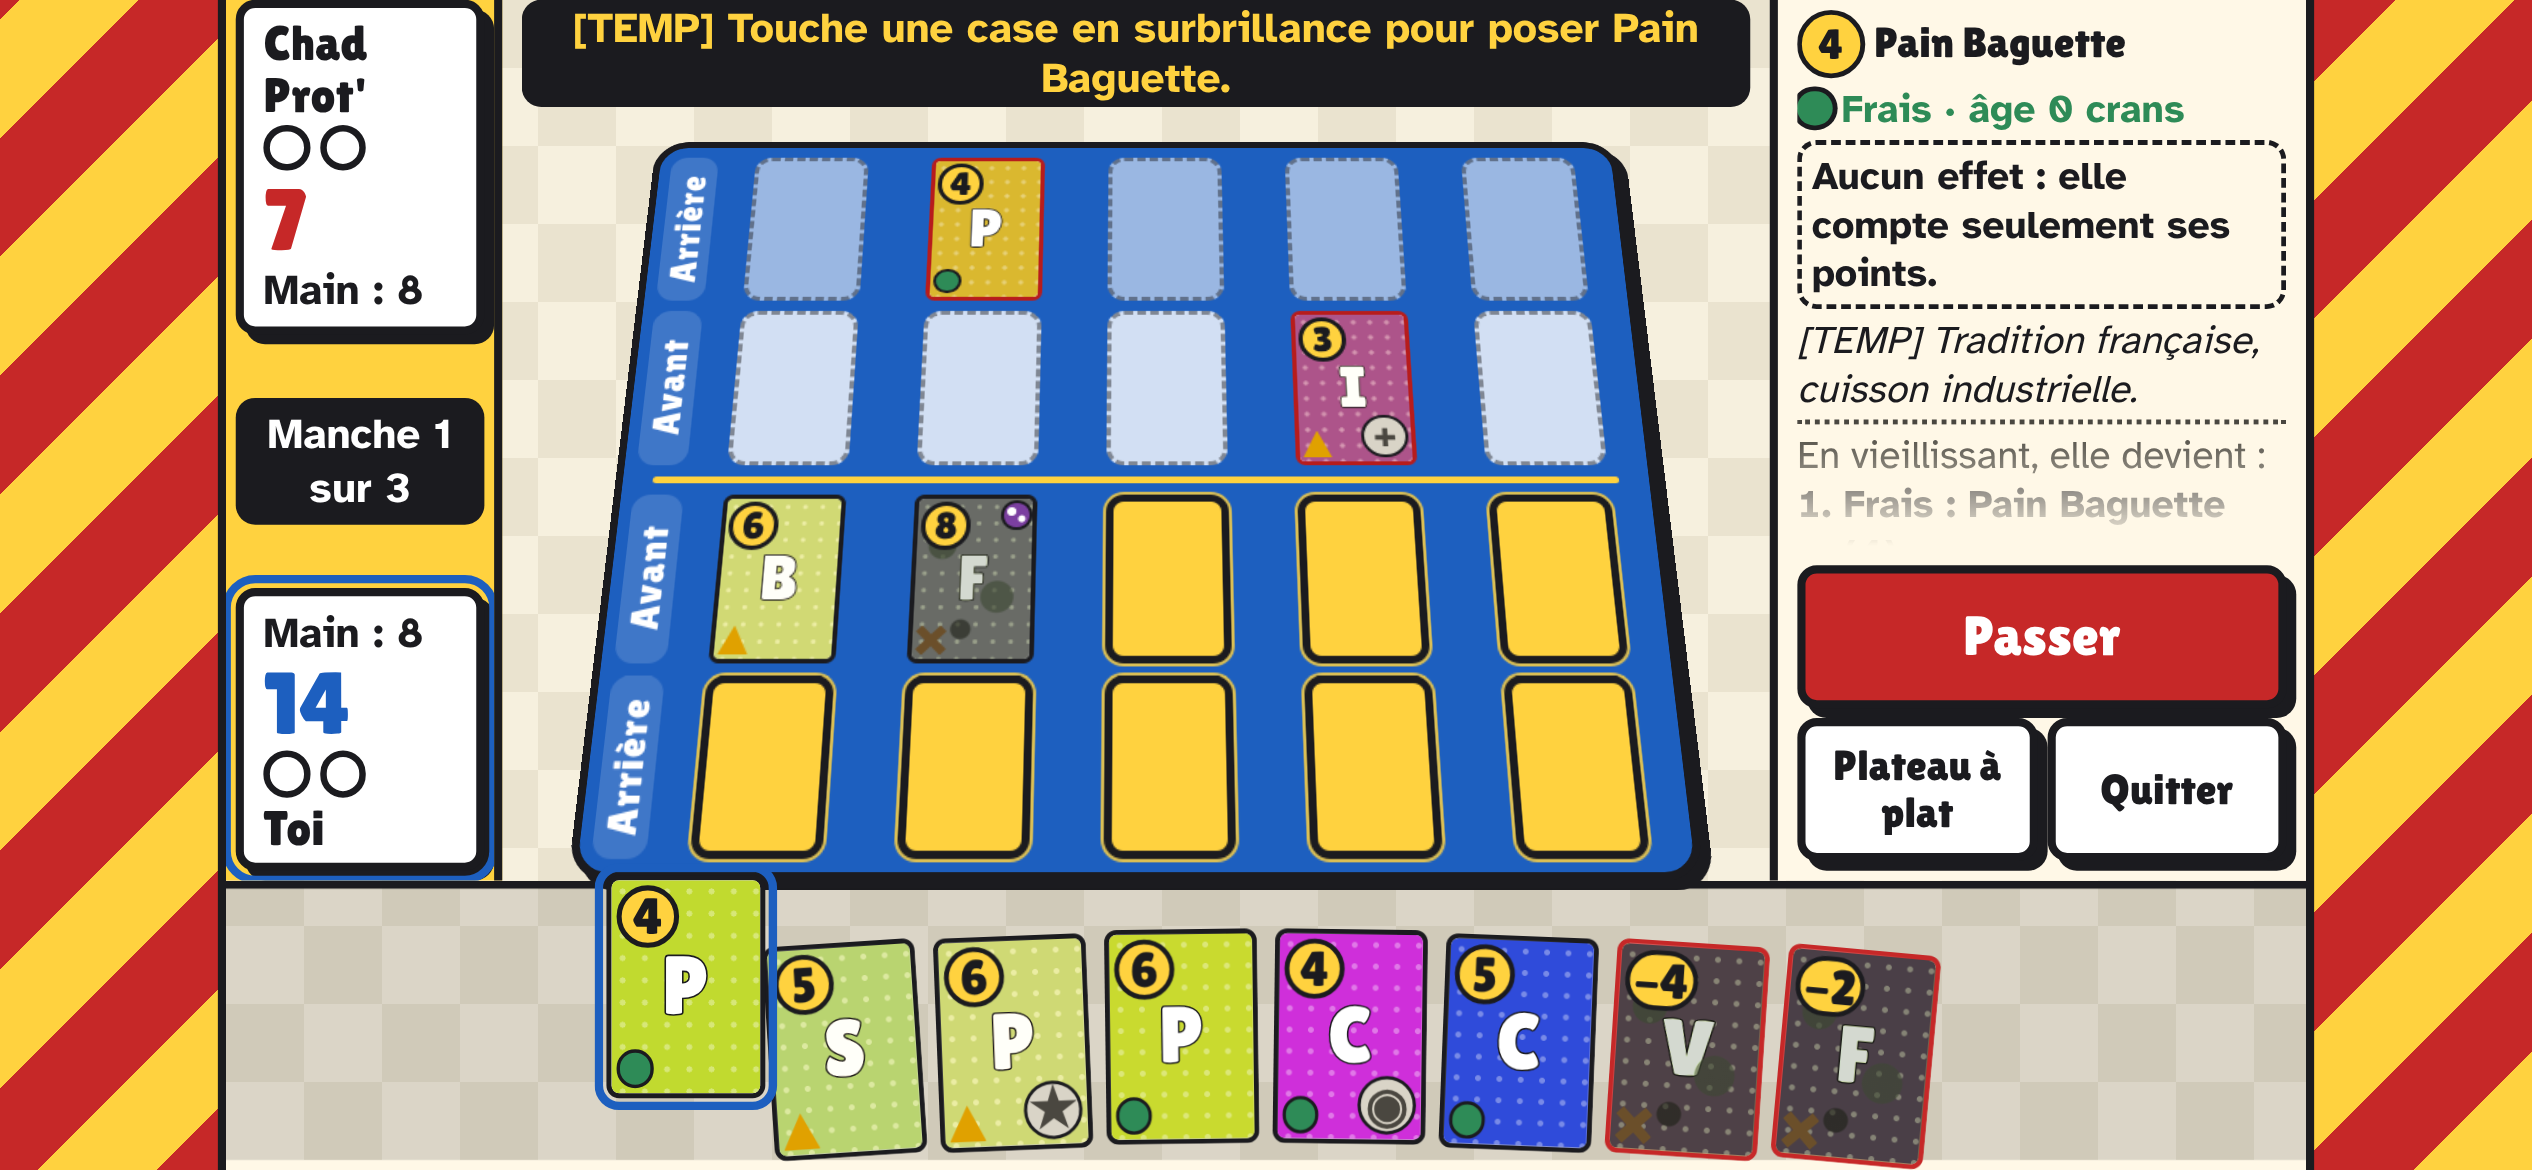
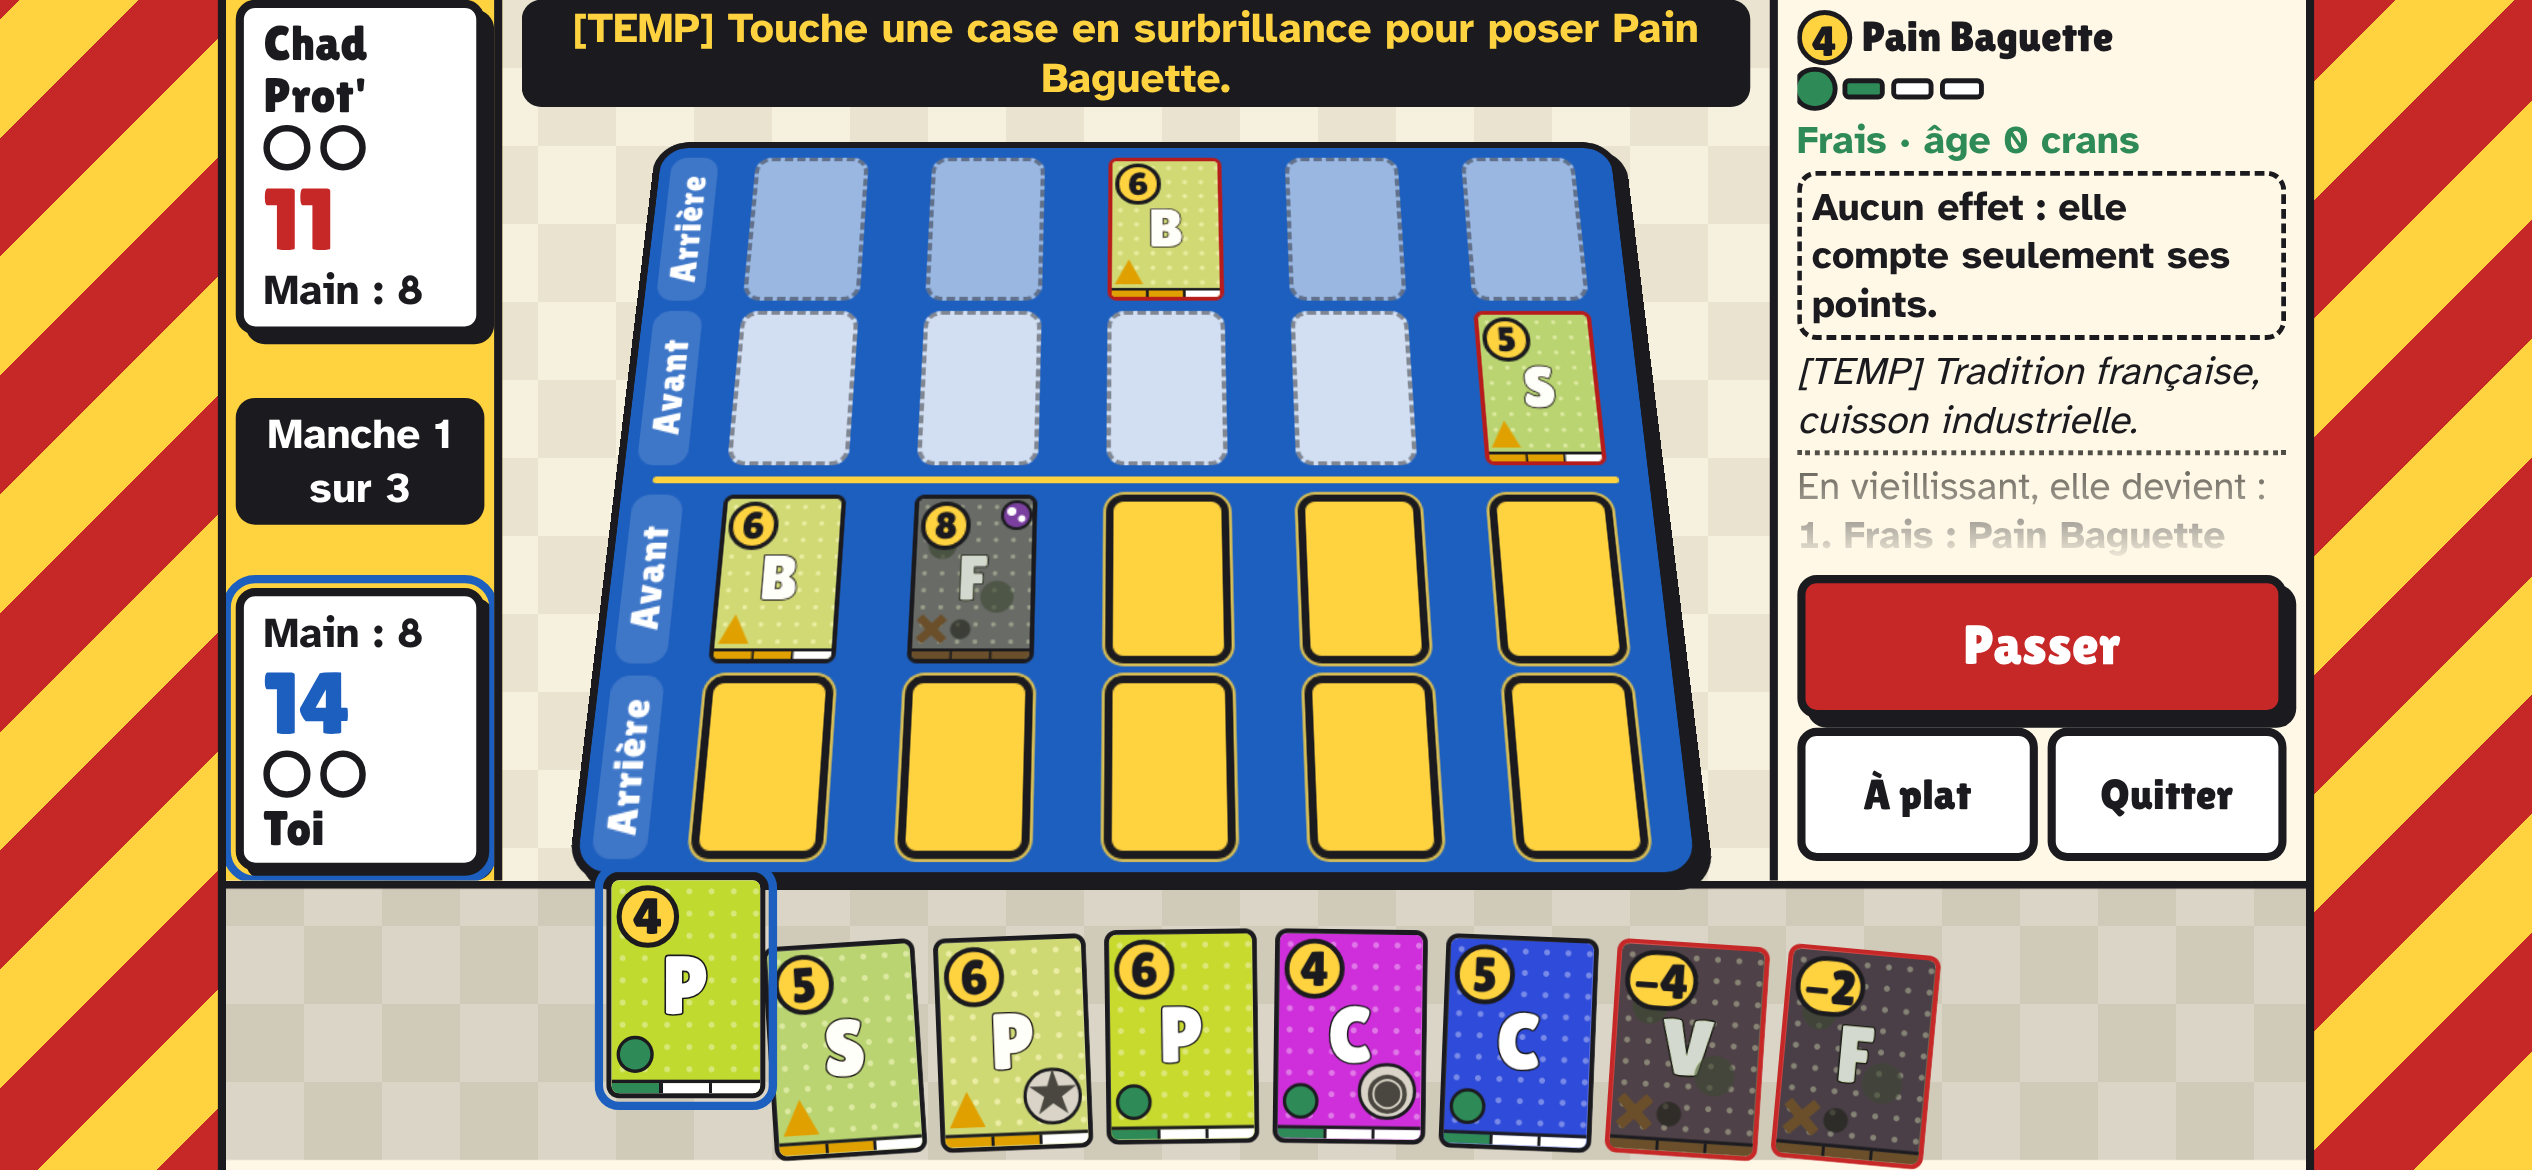
fix: jauge de fraîcheur sur les faces compactes et dans le panneau, boutons secondaires plus petits
Claude-Session: https://claude.ai/code/session_018pqLJxVkopjkg89gA8qz13

diff --git a/app/css/cards.css b/app/css/cards.css
@@ -12,8 +12,9 @@
   text-align: left;
 }
 
-.card.stage-2 { --stage-color: var(--c-stage-2); --art-filter: saturate(0.75) sepia(0.35); }
-.card.stage-3 { --stage-color: var(--c-stage-3); --art-filter: saturate(0.5) sepia(0.7) hue-rotate(35deg) brightness(0.85); }
+.card.stage-1 { --gauge-fill: 33.4%; }
+.card.stage-2 { --stage-color: var(--c-stage-2); --gauge-fill: 66.7%; --art-filter: saturate(0.75) sepia(0.35); }
+.card.stage-3 { --stage-color: var(--c-stage-3); --gauge-fill: 100%; --art-filter: saturate(0.5) sepia(0.7) hue-rotate(35deg) brightness(0.85); }
 
 .card-inner {
   position: absolute;
@@ -102,7 +103,7 @@
   position: absolute;
   z-index: 2;
   right: 3cqw;
-  bottom: 3cqw;
+  bottom: 12cqw;
   display: flex;
   align-items: center;
   gap: 2cqw;
@@ -136,7 +137,7 @@
   position: absolute;
   z-index: 2;
   left: 3cqw;
-  bottom: 3cqw;
+  bottom: 12cqw;
   display: flex;
   align-items: center;
   gap: 2cqw;
@@ -174,6 +175,22 @@
     radial-gradient(circle at 70% 65%, var(--c-white) 0 14%, transparent 16%),
     #7b3fa0;
   box-shadow: 0 0 0 max(2px, 2cqw) var(--c-ink);
+}
+
+/* Face compacte : jauge de fraîcheur en 3 segments le long du bord bas (stade 1, 2 ou 3) */
+.card-front::after {
+  content: '';
+  position: absolute;
+  z-index: 1;
+  left: 0;
+  right: 0;
+  bottom: 0;
+  height: 8cqw;
+  border-top: max(2px, 2cqw) solid var(--c-ink);
+  background:
+    linear-gradient(to right, transparent calc(33.3% - 1cqw), var(--c-ink) 0 calc(33.3% + 1cqw), transparent 0),
+    linear-gradient(to right, transparent calc(66.7% - 1cqw), var(--c-ink) 0 calc(66.7% + 1cqw), transparent 0),
+    linear-gradient(to right, var(--stage-color) var(--gauge-fill), var(--c-white) 0);
 }
 
 /* Malus en face compacte : bord rouge à rayures */

diff --git a/app/src/ui/components/InfoBand.js b/app/src/ui/components/InfoBand.js
@@ -18,6 +18,7 @@ export function createInfoBand(opts) {
     power: el('span', { className: 'info-power' }),
     stageIcon: el('span', { className: 'stage-icon', attrs: { 'aria-hidden': 'true' } }),
     fresh: el('span', { className: 'info-fresh-text' }),
+    gauge: el('span', { className: 'info-gauge', attrs: { 'aria-hidden': 'true' } }, [0, 1, 2].map(() => el('span', { className: 'info-seg' }))),
     effectIcon: el('span', { className: 'info-effect-icon', attrs: { 'aria-hidden': 'true' } }),
     effectName: el('span', { className: 'info-effect-name' }),
     effectText: el('span'),
@@ -35,7 +36,7 @@ export function createInfoBand(opts) {
   refs.effectLine.append(refs.effectText, ' ', refs.pending);
   const card = el('div', { className: 'info-card' }, [
     el('div', { className: 'info-head' }, [refs.power, refs.name]),
-    el('p', { className: 'info-fresh' }, [refs.stageIcon, refs.fresh, refs.tags]),
+    el('p', { className: 'info-fresh' }, [refs.stageIcon, refs.gauge, refs.fresh, refs.tags]),
     effectBox,
     refs.malus,
     refs.flavor,
@@ -71,6 +72,7 @@ export function createInfoBand(opts) {
     refs.power.textContent = powerText(view.power);
     refs.power.classList.toggle('is-negative', view.power !== null && view.power < 0);
     refs.stageIcon.dataset.stage = String(view.stage);
+  refs.gauge.dataset.stage = String(view.stage);
     const stage = stageLabel(t, view.stage);
     const fresh = view.owner === 'player' ? t('info.freshness', { stage, age: view.age }) : t('info.freshnessFixed', { stage });
     refs.fresh.textContent = view.stageLocked ? `${fresh} · ${t('info.stageLocked')}` : fresh;

diff --git a/app/css/info.css b/app/css/info.css
@@ -74,6 +74,24 @@
   clip-path: polygon(20% 0, 50% 30%, 80% 0, 100% 20%, 70% 50%, 100% 80%, 80% 100%, 50% 70%, 20% 100%, 0 80%, 30% 50%, 0 20%);
 }
 
+/* Jauge de fraîcheur en 3 segments, comme sur la face complète de la carte */
+.info-gauge {
+  display: inline-flex;
+  gap: 4px;
+}
+
+.info-seg {
+  width: calc(var(--fs-info) * 1.1);
+  height: calc(var(--fs-info) * 0.55);
+  border: 3px solid var(--c-ink);
+  border-radius: 4px;
+  background: var(--c-white);
+}
+
+.info-gauge[data-stage='1'] .info-seg:nth-child(1) { background: var(--c-stage-1); }
+.info-gauge[data-stage='2'] .info-seg:nth-child(-n + 2) { background: var(--c-stage-2); }
+.info-gauge[data-stage='3'] .info-seg { background: var(--c-stage-3); }
+
 /* Effet : mis en avant dans un encadré */
 .info-effect {
   display: flex;
@@ -176,8 +194,8 @@ html[data-profile='compact'] .info-name {
 }
 
 html[data-profile='compact'] .info-power {
-  min-width: calc(var(--fs-small) * 1.6);
-  height: calc(var(--fs-small) * 1.6);
+  min-width: calc(var(--fs-small) * 1.3);
+  height: calc(var(--fs-small) * 1.3);
   border-width: 3px;
   font-size: var(--fs-small);
 }

diff --git a/app/css/combat.css b/app/css/combat.css
@@ -184,13 +184,10 @@ html[data-profile='compact'] .panel-left {
 }
 
 .btn-small {
-  padding: var(--space-xs);
+  min-height: var(--touch-small);
+  padding: 2px var(--space-xs);
   font-size: var(--fs-small);
-}
-
-/* Grand écran : boutons secondaires un peu moins hauts (82 × 0,57 ≈ 47 px réels au minimum) */
-html[data-profile='wide'] .btn-small {
-  min-height: calc(var(--touch-min) * 0.85);
+  box-shadow: none;
 }
 
 .actions-question {
@@ -270,4 +267,8 @@ html[data-profile='compact'] .board.is-flat .board-plane {
   scrollbar-width: thin;
   font-size: var(--fs-info);
   line-height: 1.25;
+}
+
+html[data-profile='compact'] .panel-right {
+  gap: var(--space-xs);
 }

diff --git a/app/css/tokens.css b/app/css/tokens.css
@@ -48,6 +48,7 @@
   --fs-logo: calc(232px * var(--text-scale));
   --fs-promo: calc(56px * var(--text-scale));
   --touch-min: 96px; /* 96 × 0,57 ≈ 55 px réels ≥ TOUCH_MIN_PX */
+  --touch-small: 78px; /* boutons peu utilisés : 78 × 0,573 ≈ 44,7 px réels au minimum */
   --space-xs: 8px;
   --space-s: 16px;
   --space-m: 32px;
@@ -78,6 +79,7 @@ html[data-profile='compact'] {
   --fs-logo: calc(150px * var(--text-scale));
   --fs-promo: calc(38px * var(--text-scale));
   --touch-min: 88px; /* 88 × 0,54 ≈ 47 px réels */
+  --touch-small: 82px; /* 82 × 0,54 ≈ 44,4 px réels */
   --space-xs: 6px;
   --space-s: 12px;
   --space-m: 20px;

diff --git a/app/src/ui/components/ActionBar.js b/app/src/ui/components/ActionBar.js
@@ -15,6 +15,7 @@ export function createActionBar(opts) {
   const { t } = opts;
   const passBtn = button(t, 'combat.pass', 'pass', 'btn-pass');
   const flatBtn = button(t, 'combat.flat', 'flat', 'btn-small');
+  flatBtn.setAttribute('aria-label', t('combat.flatLabel'));
   const quitBtn = button(t, 'combat.quit', 'quit', 'btn-small');
   const idle = el('div', { className: 'actions-idle' }, [passBtn, el('div', { className: 'actions-row' }, [flatBtn, quitBtn])]);
 

diff --git a/app/css/hand.css b/app/css/hand.css
@@ -124,3 +124,6 @@ html[data-profile='wide'] .hand .card-malus {
 
 html[data-profile='wide'] .hand .card:not(.is-malus) .card-malus { display: none; }
 html[data-profile='wide'] .hand .card.is-fermented .card-ferment { top: 70px; right: auto; left: 18px; width: 26px; height: 26px; }
+
+/* La face complète a sa propre jauge : pas de jauge en bas de carte */
+html[data-profile='wide'] .hand .card-front::after { display: none; }

diff --git a/CLAUDE.md b/CLAUDE.md
@@ -23,7 +23,7 @@ Ces deux documents sont la référence. Ne pas recopier leurs règles ici : les 
 - Documents v2.0 en place dans `docs/`.
 - **J0 — Socle et mise en ligne** : fusionné dans `main` (pull request sidjel/maxi-gouffre#1), tag `v0.0-socle` posé. Testé en ligne par l'auteur sur PC et téléphone : aucun bug. **Polices validées** : Lilita One, Atkinson Hyperlegible, IBM Plex Mono.
 - **J1 — Premier match jouable** : fusionné dans `main` (pull request sidjel/maxi-gouffre#2). Testé en ligne par l'auteur : tout fonctionne. Tag à poser : `v1.0-premier-match`. Contenu : « Combat rapide » depuis le titre, contre l'IA Noob (Chad Prot') ; 20 cartes et 6 plats en données (effets présents mais pas résolus) ; plateau 2.5D ou à plat ; main ; pose au pointeur ; Malus ; passer avec confirmation ; scores en direct ; 3 manches, manche nulle, départage, qui commence ; chifoumi ; fins de manche et de match ; `Store`, `Session`.
-- **Corrections du J1** (branche `fix-j1-lisibilite`, pull request vers `main`), d'après les retours de l'auteur : panneau de droite réorganisé (effet, fraîcheur, description en avant ; stades en retrait ; défilement ; « Comment jouer » sans carte visée), cases au format des cartes avec les noms des lignes, consigne au-dessus du plateau. Nouveau test `tests/e2e/info-band.mjs` (78 fiches × 3 tailles).
+- **Corrections du J1** (branche `fix-j1-lisibilite`, pull request vers `main`), d'après les retours de l'auteur : panneau de droite réorganisé (effet, fraîcheur, description en avant ; stades en retrait ; défilement ; « Comment jouer » sans carte visée), cases au format des cartes avec les noms des lignes, consigne au-dessus du plateau, jauge de fraîcheur sur les faces compactes, boutons « À plat » et « Quitter » réduits. Nouveau test `tests/e2e/info-band.mjs` (78 fiches × 3 tailles).
 - Vérifications : `npm run check` (données, registre, tailles, recherches interdites, tests unitaires) ; `npm run e2e` (smoke, `play-match.mjs`, `info-band.mjs`) et `npm run shots` utilisent Playwright (déjà présent dans les sessions cloud, sinon `npm install`). Les matchs e2e tournent avec le vrai délai de l'IA (~1 min 30 au total).
 - Dans les sessions cloud, pousser un tag échoue et sidjel.github.io n'est pas joignable : l'auteur pose les tags et teste en ligne.
 - Prochain jalon : **J2 — Effets, vieillissement, IA Gamer** (`ARCHITECTURE.md` §18). Points ouverts : départage aux points même avec 1 manche gagnée contre 2 nulles (DECISIONS J1) ; l'IA Noob vide souvent sa main dès la manche 1, à mesurer par la simulation.

diff --git a/docs/DECISIONS.md b/docs/DECISIONS.md
@@ -60,3 +60,6 @@ Format : date · jalon · décision · raison.
 | 2026-11-06 | **Cases** : l'emplacement dessiné a le format d'une carte (5:7) ; la zone à toucher (le bouton) garde la largeur de la colonne. Noms des lignes Avant et Arrière écrits sur le plateau. | Demande de l'auteur (cases plus rectangulaires), sans réduire la zone à toucher sous 44 px réels. Les noms des lignes préparent les effets du J2. |
 | 2026-11-06 | Sur téléphone, la consigne est posée par-dessus le haut du plateau incliné, qui recule et laisse un vide. À plat, le plateau est réduit à 80 % pour rester sous la consigne. | Cela rend 16 px logiques de hauteur aux cases : la ligne du fond passe de 41,8 à 47,7 px réels. |
 | 2026-11-06 | Tailles revues : grand écran, cases 136×156, panneaux de 280 et 490 px, boutons secondaires de 82 px logiques (47 px réels au minimum) ; téléphone, cases 120×116, panneaux de 170 et 330 px. | Pour que le panneau de droite tienne. Mesures : texte ≥ 13 px réels, cases et boutons ≥ 47,7 px réels sur téléphone. |
+| 2026-11-06 | Je garde les noms de ligne **Avant / Arrière** sur le plateau. | Les effets du J2 dépendent de la ligne (GD §8.1), et chaque description d'effet commence par « En ligne Avant » ou « En ligne Arrière ». Le nom de la ligne relie les deux. La teinte plus claire de la ligne Avant reste en plus. |
+| 2026-11-06 | Face compacte : **jauge de fraîcheur en 3 segments** le long du bord bas, en plus de l'icône de stade. Le nom de la carte n'y figure pas. | Retour de l'auteur. Le nom ne tient pas lisiblement sur une carte de 50 px réels de large (texte < 12 px) ; il est dans le panneau de droite. La face complète (nom et jauge) reste en main sur grand écran, profil `wide`. |
+| 2026-11-06 | Boutons « À plat » et « Quitter » : hauteur `--touch-small` (78 px logiques en `wide`, 82 en `compact`), soit au moins 44 px réels. | Retour de l'auteur : boutons peu utilisés. On ne descend pas sous TOUCH_MIN_PX. |

diff --git a/CHANGELOG.md b/CHANGELOG.md
@@ -12,6 +12,8 @@ Retours de l'auteur après le test en ligne du J1.
 - **Cases du plateau** au format des cartes (5:7). La zone à toucher reste plus large que l'emplacement dessiné. Chaque ligne porte son nom (Avant, Arrière).
 - **Consigne** déplacée au-dessus du plateau. Sur téléphone, elle occupe le vide laissé par le haut du plateau incliné.
 - Textes plus courts pour Malus, Outil, Détruire les voisins, Annuler (voisins) et l'effet pas encore actif.
+- **Jauge de fraîcheur en 3 segments** aussi sur les faces compactes (plateau, main sur téléphone), le long du bord bas, et dans le panneau de droite.
+- Boutons « À plat » (ex-« Plateau à plat ») et « Quitter » plus petits : zone à toucher au minimum de 44 px réels, sans ombre.
 
 ### Ajouté
 - `tests/e2e/info-band.mjs` : pour les 26 cartes à leurs 3 stades et aux 3 tailles, l'effet et le Malus se lisent sans défiler (et le texte d'ambiance aussi sur grand écran). Le rappel des règles s'affiche sans carte visée.
